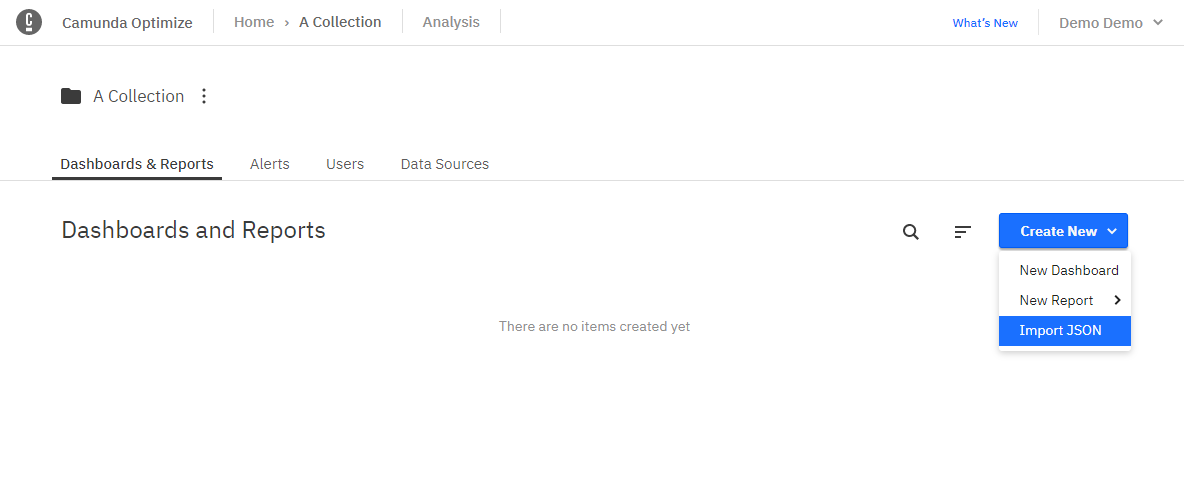
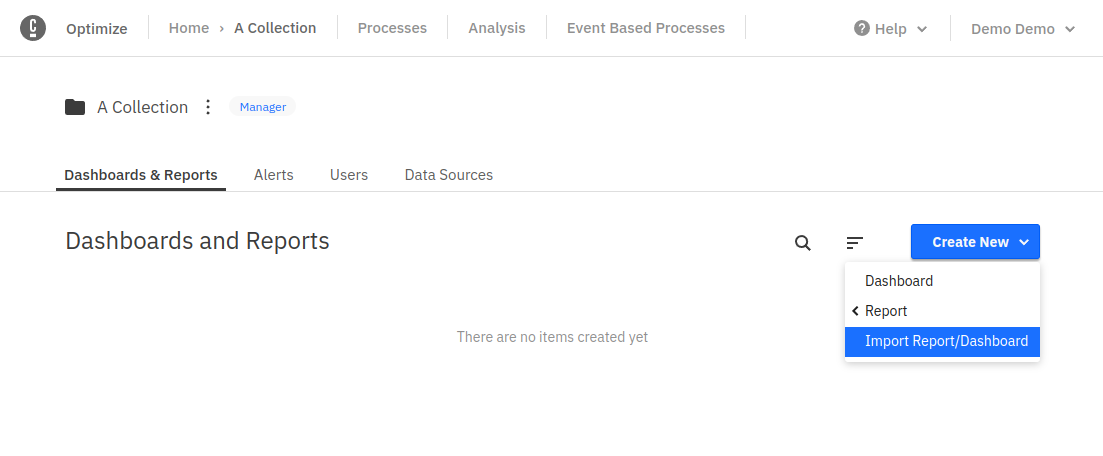
docs(optimize): Update import export page
related to OPT-6527

diff --git a/optimize/components/userguide/additional-features/export-import.md b/optimize/components/userguide/additional-features/export-import.md
@@ -29,13 +29,13 @@ If any of the above conditions are not met, the import will fail. Optimize will 
 
 ### Importing private entities
 
-To import an entity as a private entity, use the **Import JSON** option from the **Create New** menu on the welcome page. The entity will appear in the entity list once the import is finished and can be interacted with as usual.
+To import an entity as a private entity, use the **Import Report/Dashboard** option from the **Create New** menu on the welcome page. The entity will appear in the entity list once the import is finished and can be interacted with as usual.
 
 ![Importing a private entity](./img/private-import.png)
 
 ### Importing entities into a collection
 
-To add the entity to an existing collection, use the same **Import JSON** option from the **Create New** menu from within the selected collection. This will import the entity into the collection. Any user that has access to this collection can now also access the imported entity.
+To add the entity to an existing collection, use the same **Import Report/Dashboard** option from the **Create New** menu from within the selected collection. This will import the entity into the collection. Any user that has access to this collection can now also access the imported entity.
 
 :::note
 The collection must have all data sources required by the imported entity or the import will fail.
